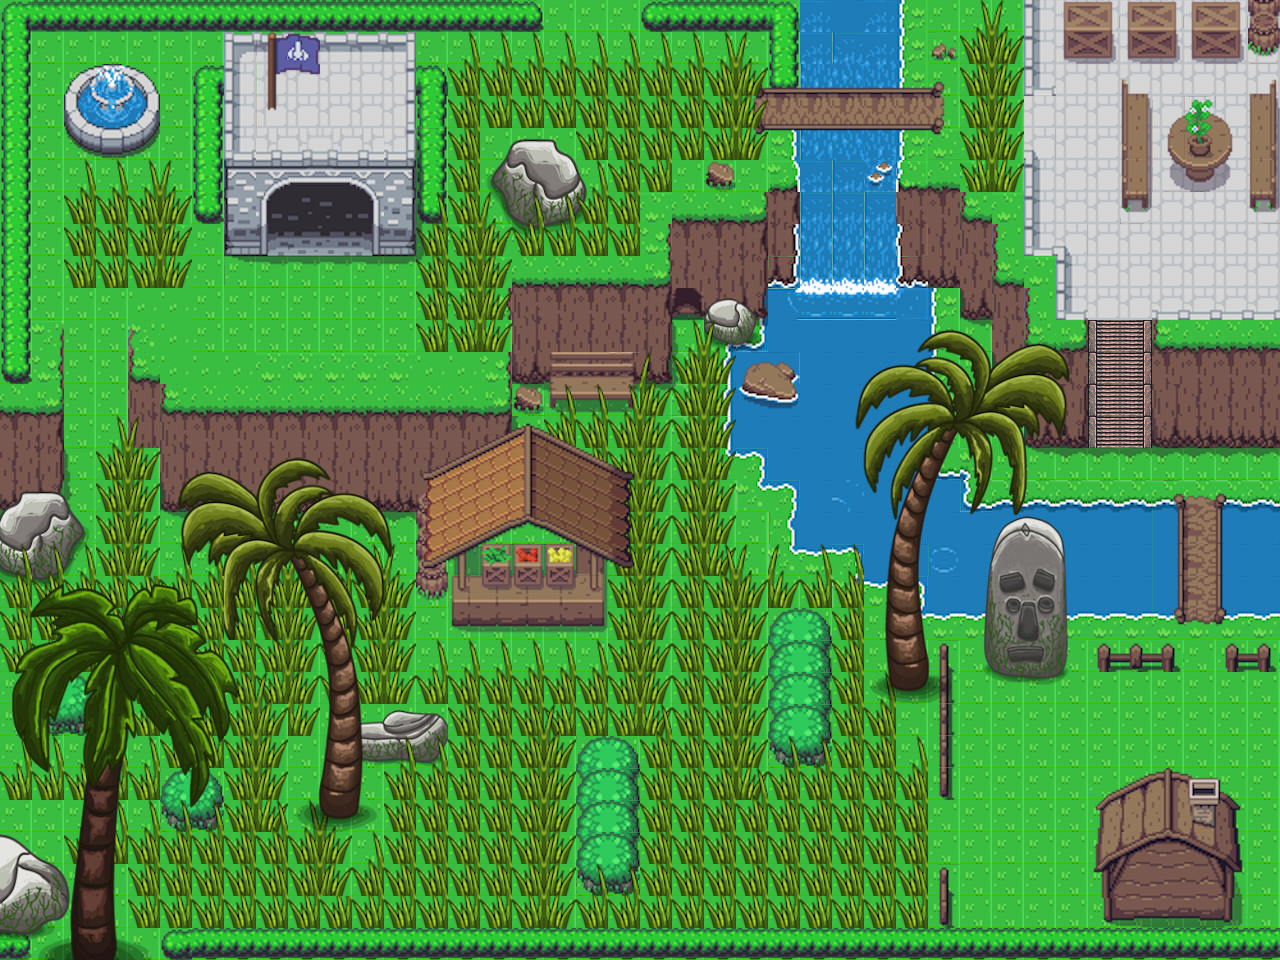
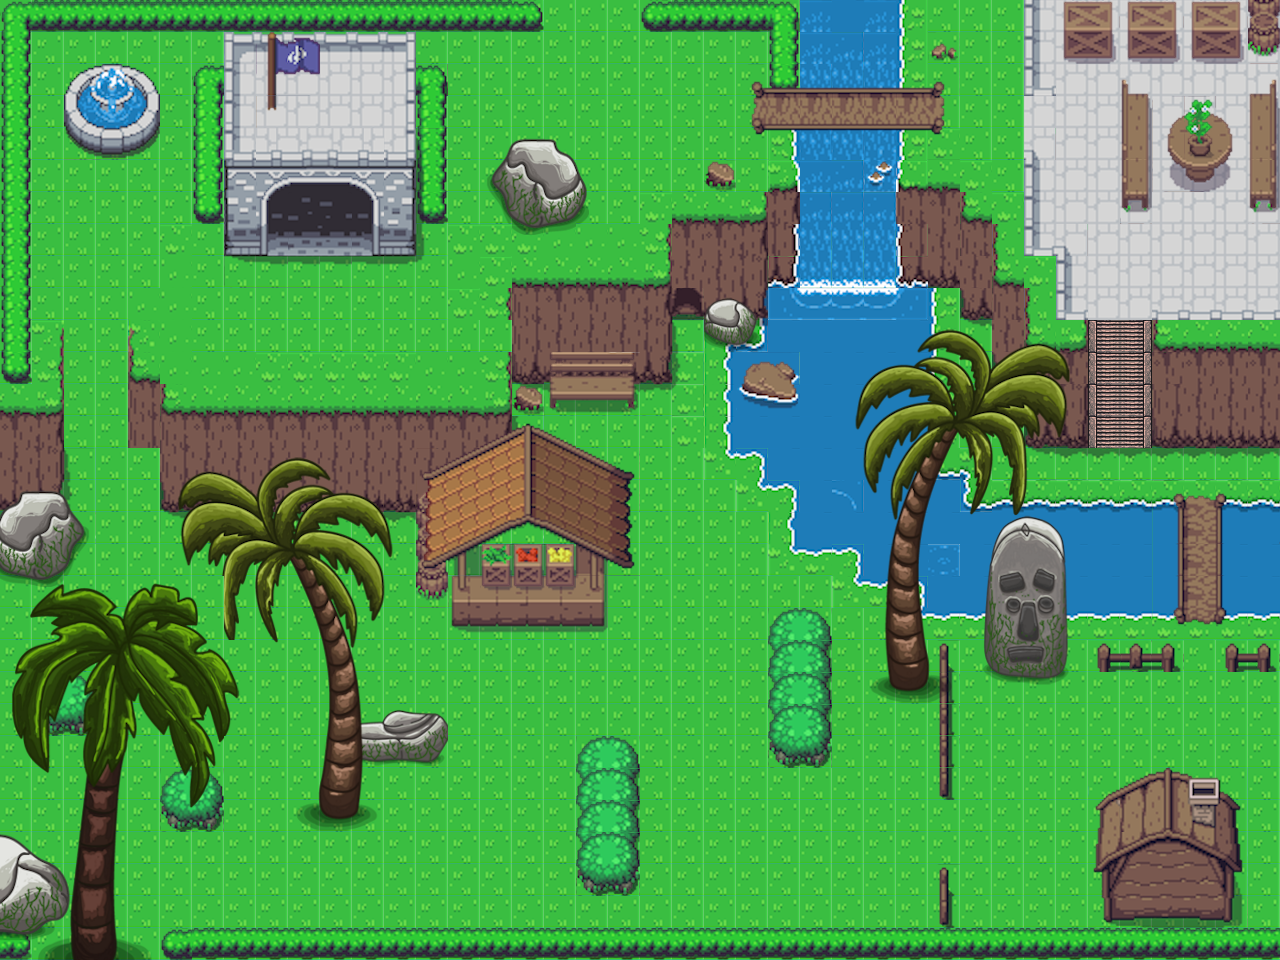
update: grass png revised

diff --git a/scenes/gameScene.js b/scenes/gameScene.js
@@ -14,13 +14,14 @@ class GameScene extends Phaser.Scene {
       'heroMapCollider',
       '../assets/csv/heroMapCollider.csv'
     );
+    // this.load.tilemapCSV(
+    //   'heroMapCollider',
+    //   '../assets/csv/heroMapCollider.csv'
+    // );
     // ---------------images---------------
     this.load.image('wholeGame', '../assets/heroMapGame.png');
     this.load.image('flag', '../assets/heroMapFlag.png');
-    // this.load.image('entrance', '../assets/heroMapEntrance.png');
-    // this.load.image('bottomCollide', '../assets/heroMapCollideObjects.png');
-    this.load.image('grass', '../assets/heroMapGrass.png');
-    // this.load.image('bridges', '../assets/heroMapBridges.png');
+    this.load.image('grass', '../assets/heroMapGrassLayer.png');
     this.load.image('top', '../assets/heroMapTop.png');
     this.load.spritesheet('pinkMan', '../assets/pinkMan.png', {
       frameWidth: 32,
@@ -40,17 +41,14 @@ class GameScene extends Phaser.Scene {
       tileHeight: 32
     });
     const tileset = map.addTilesetImage('greenery');
-    const grassLayer = map.createStaticLayer(0, tileset);
-    grassLayer.setDepth(-2);
+    const gameLayer = map.createStaticLayer(0, tileset);
+    gameLayer.setDepth(-2);
     map.setCollisionBetween(0, 5);
     // ---------------images--------------
     this.add.image(640, 480, 'wholeGame').setDepth(-1);
-    // this.add.image(640, 480, 'entrance');
-    // this.add.image(640, 480, 'bottomCollide');
     this.add.image(640, 480, 'flag').setDepth(1);
     this.add.image(640, 480, 'grass').setDepth(1);
     this.add.image(640, 480, 'top').setDepth(1);
-    // this.add.image(640, 480, 'bridges').setDepth(1);
     // ------------playerOne--------------
     playerOne = this.physics.add.sprite(100, 450, 'pinkMan');
     playerOne.setDepth(0);
@@ -99,7 +97,7 @@ class GameScene extends Phaser.Scene {
       frameRates: 10
     });
     // ------------static collide--------
-    this.physics.add.collider(playerOne, grassLayer);
+    this.physics.add.collider(playerOne, gameLayer);
     // collideObjects = this.physics.add.staticGroup();
     // collideObjects.setDepth(0);
     // collideObjects.create(400, 300, 'bottomCollide');
